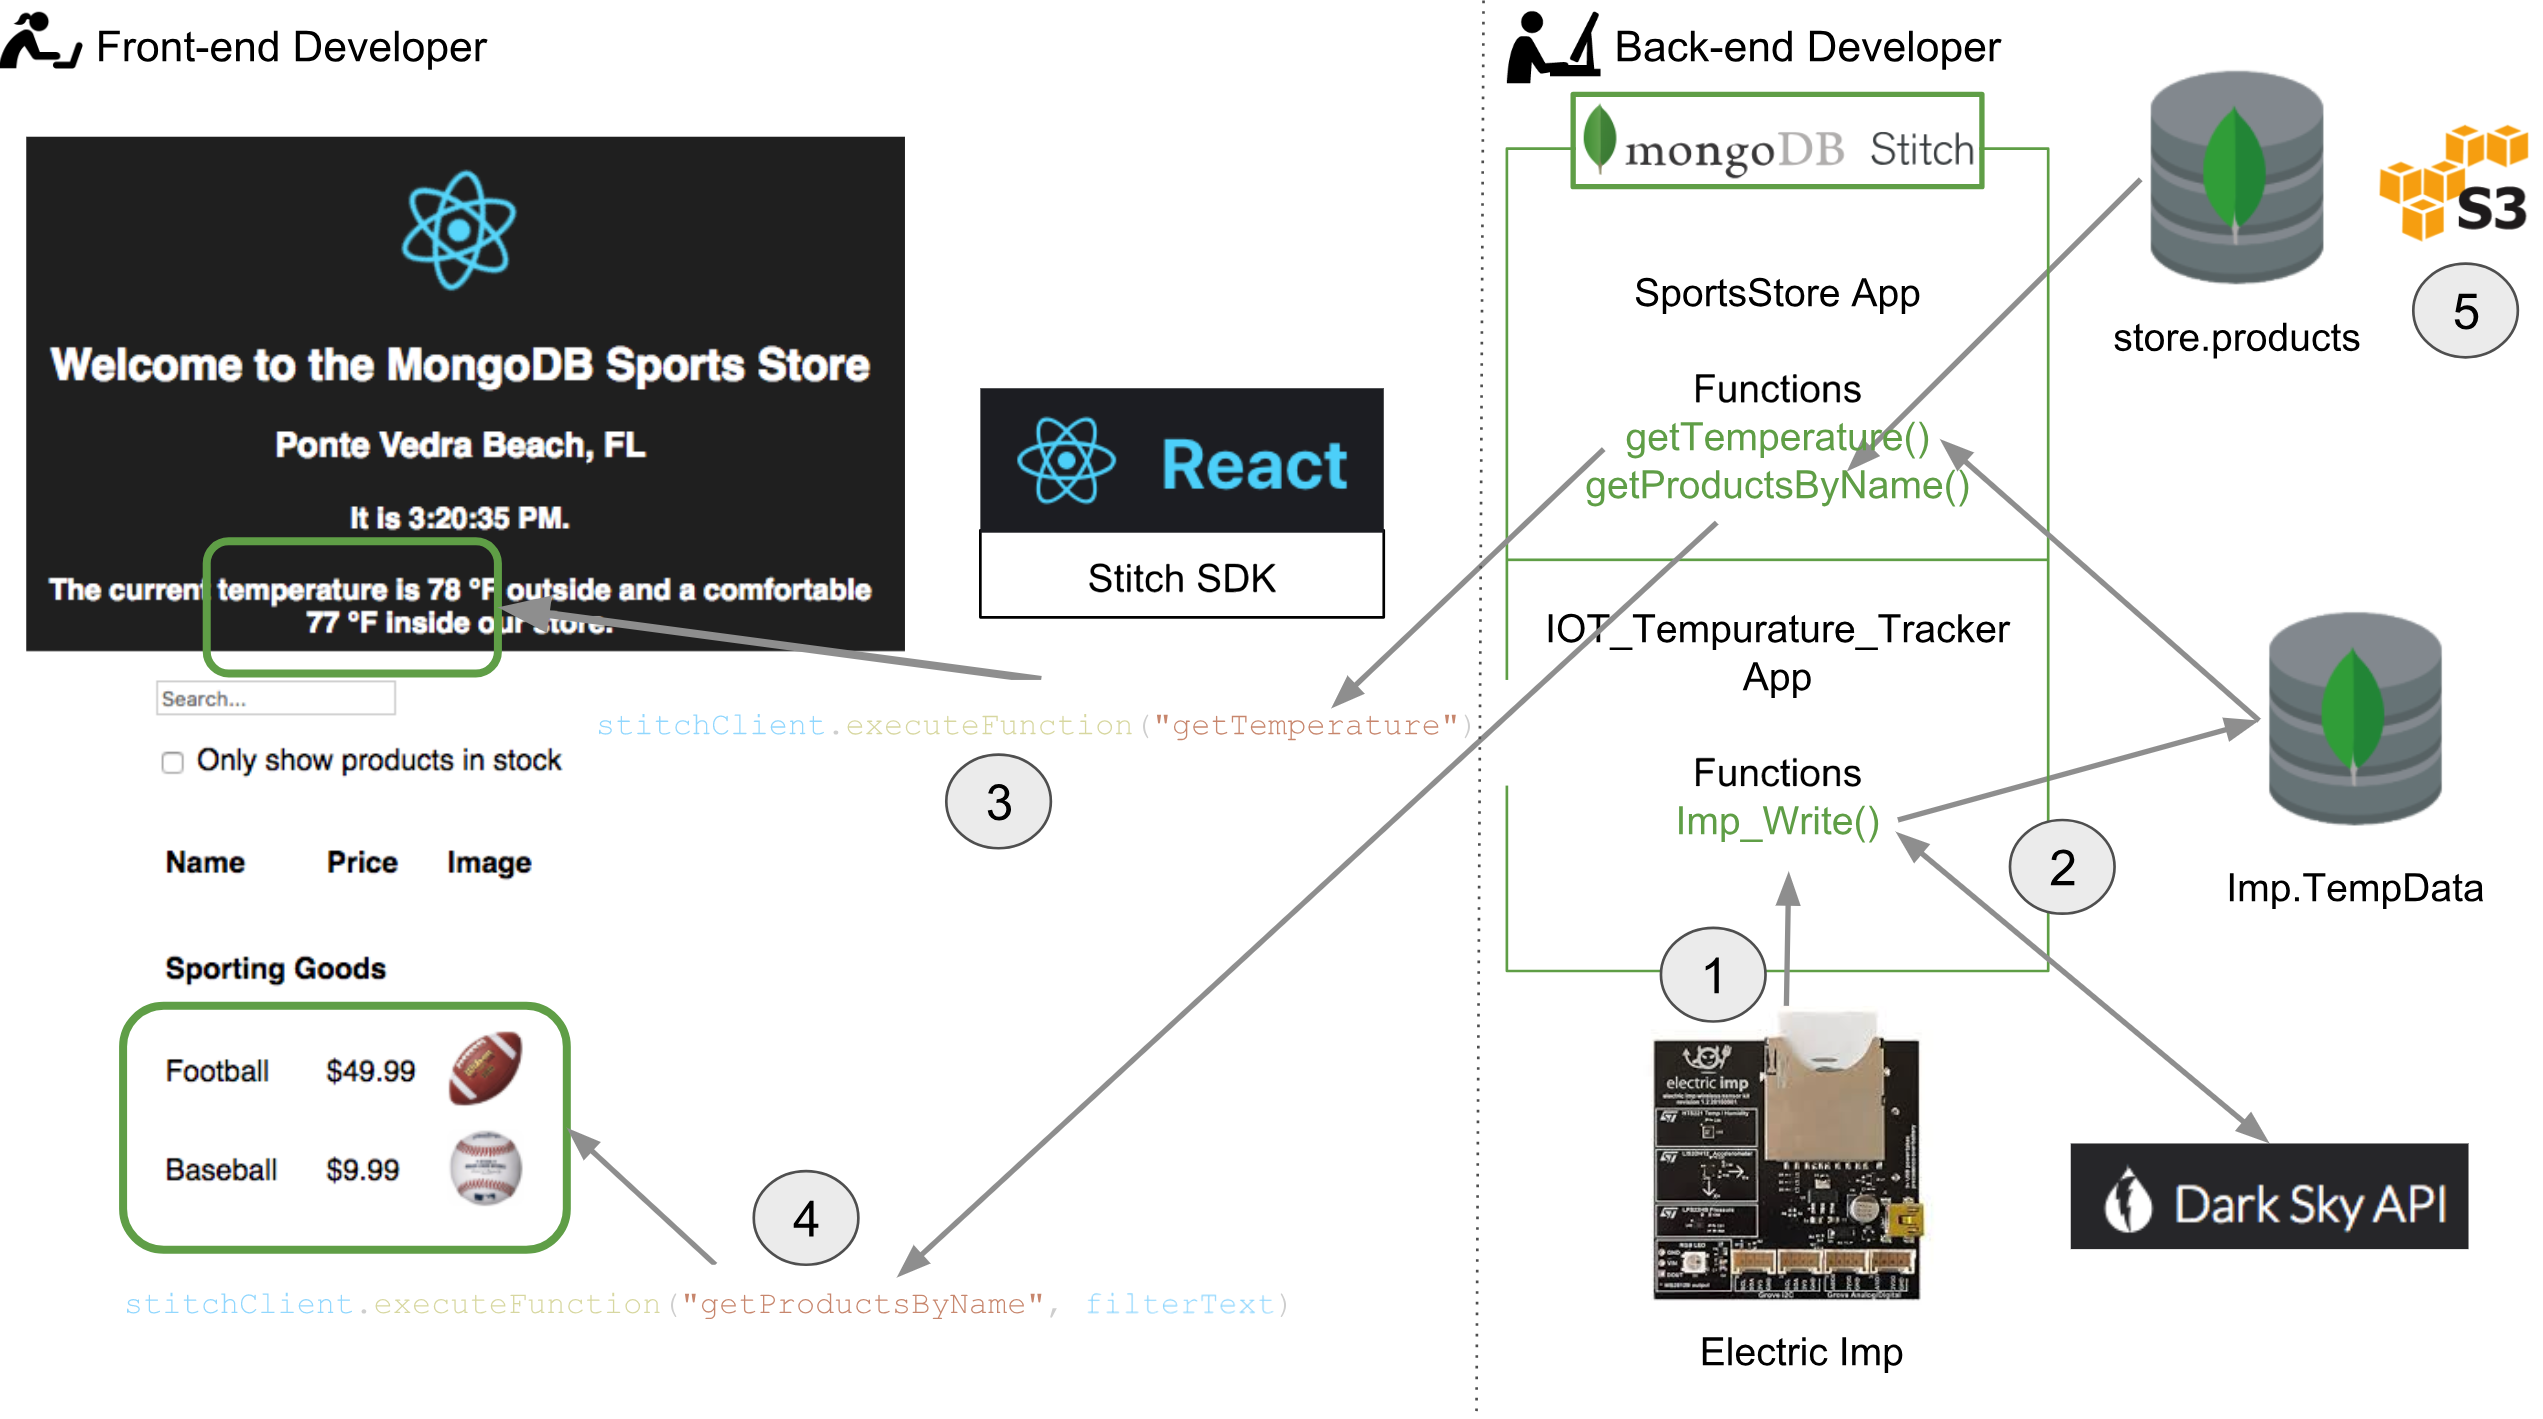
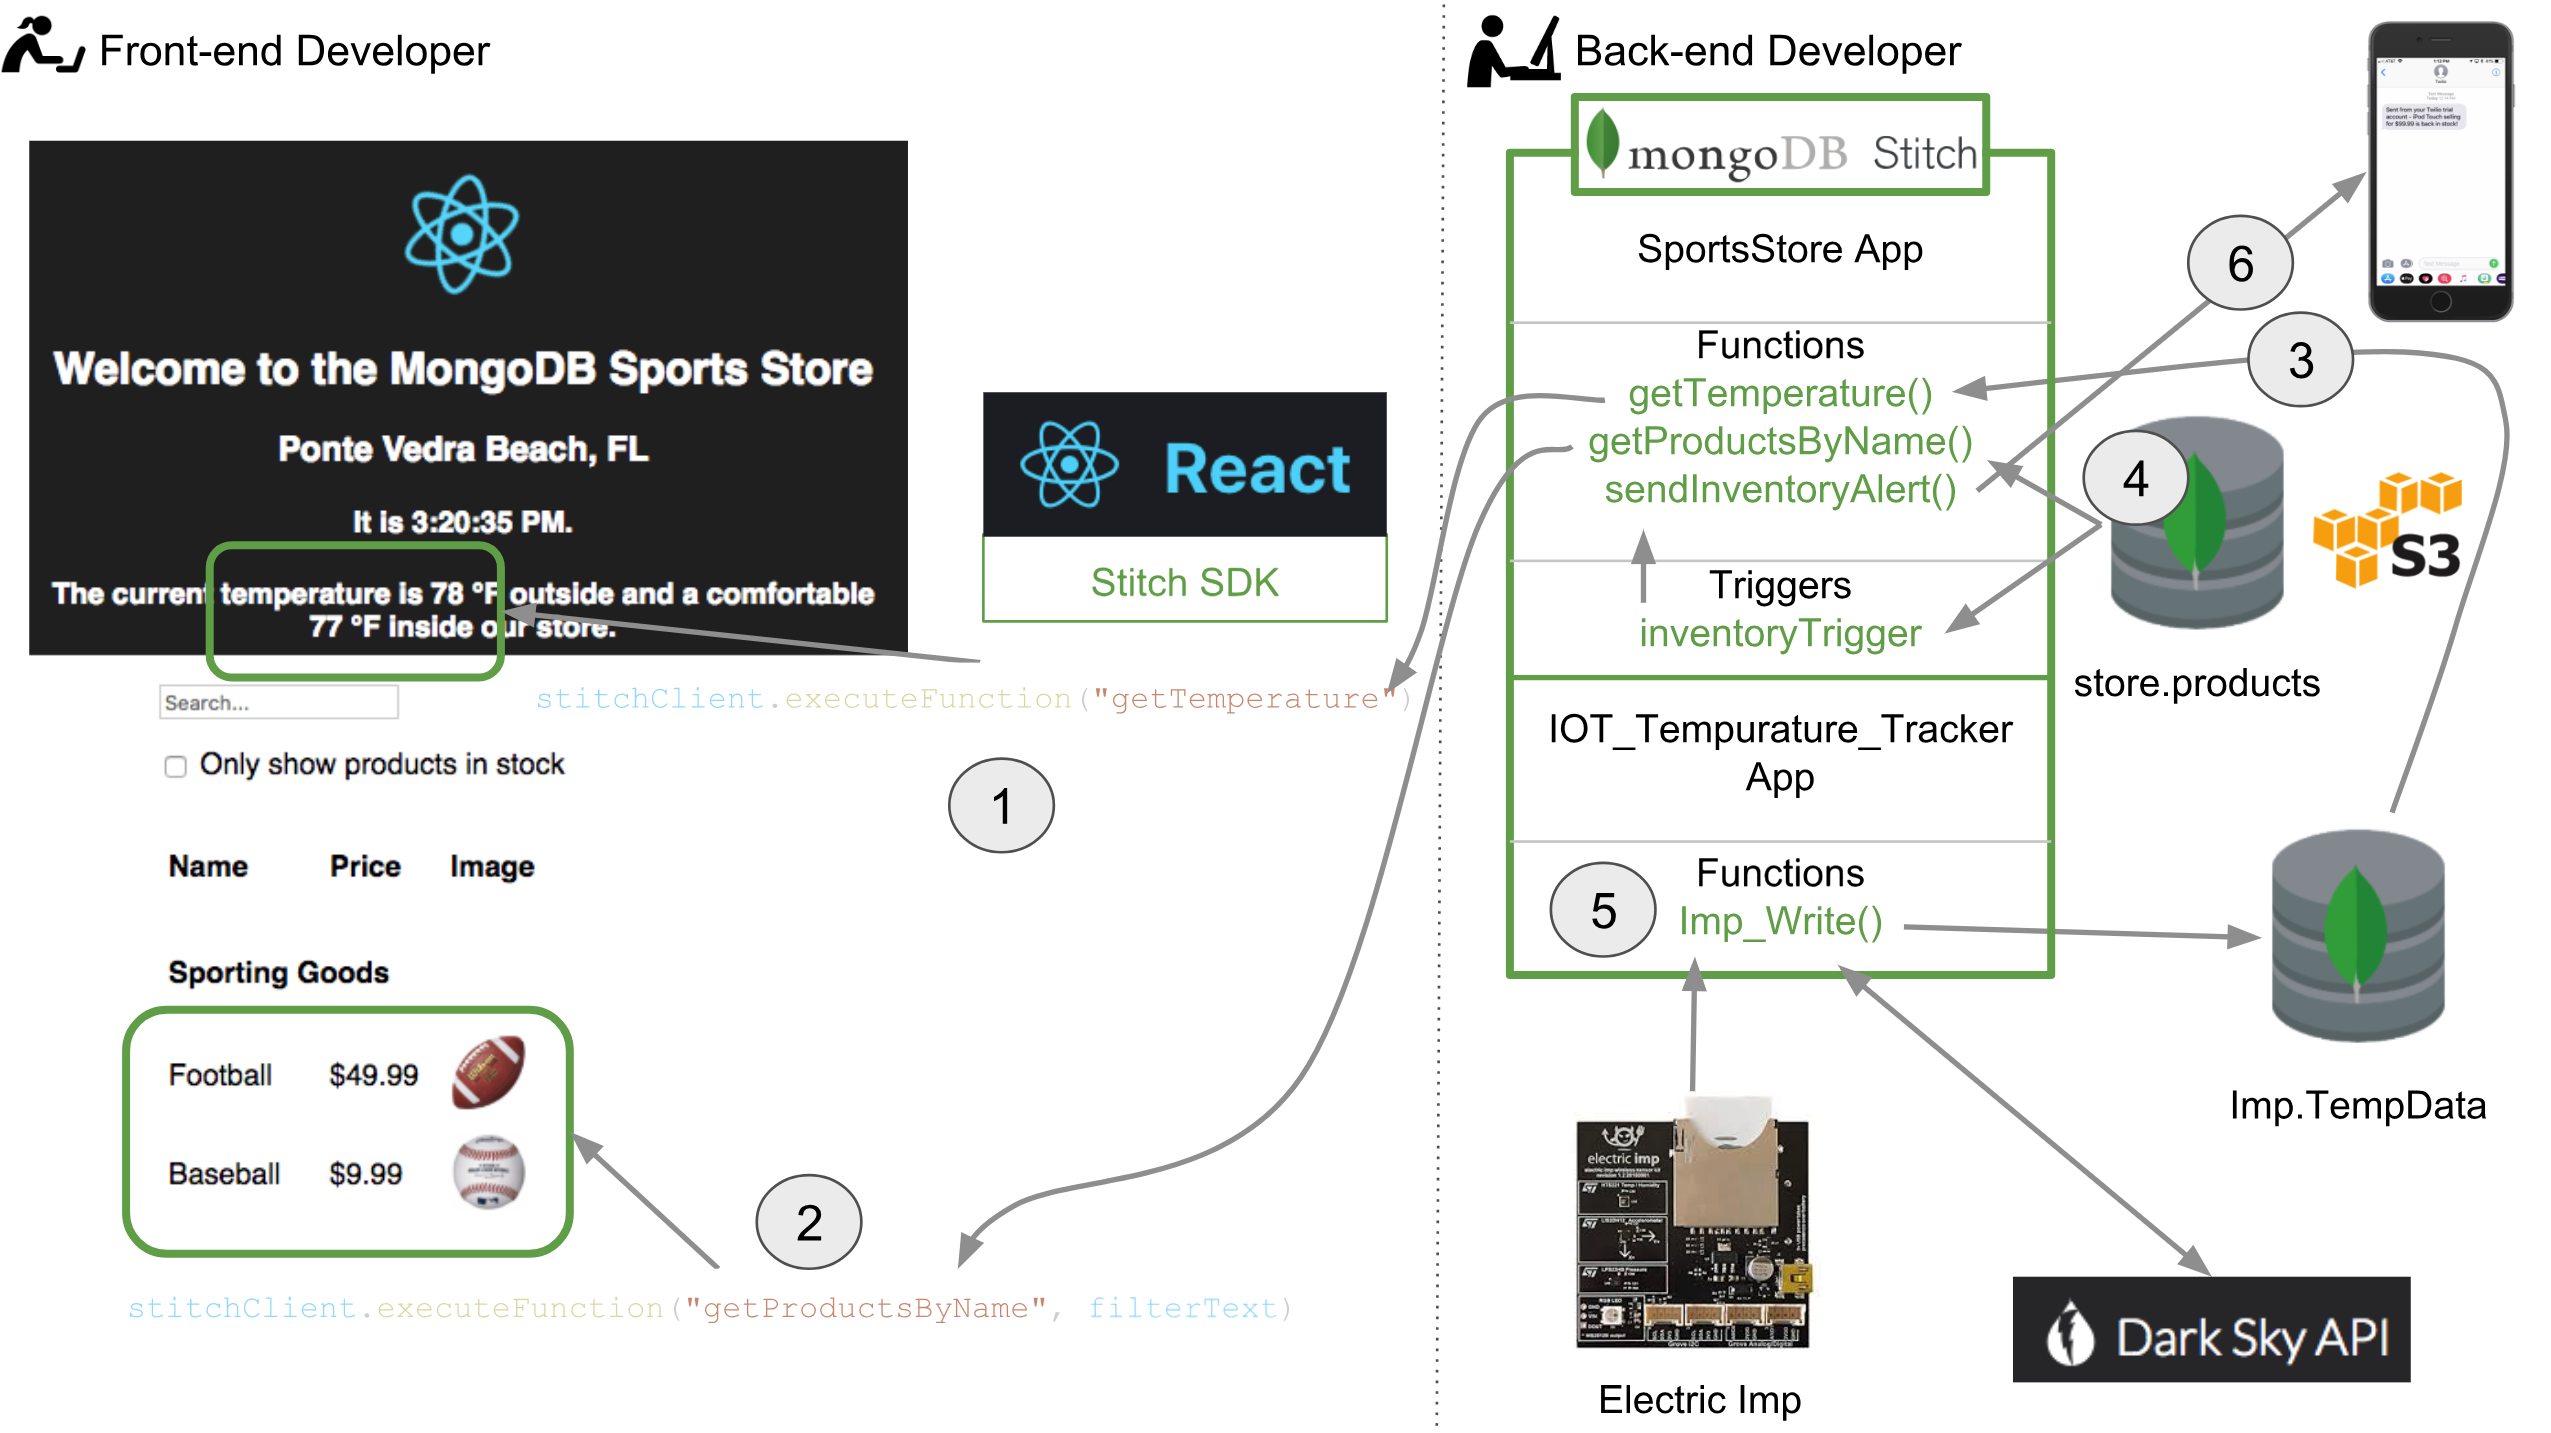
Updated architecture

diff --git a/README.md b/README.md
@@ -7,18 +7,29 @@
 Here I'm going to demonstrate how Stitch's serverless framework can be used to expose APIs, so you can shield your development community from the nuances of your backend.
 
  ## Architecture
-I started with the [Thinking in React](https://reactjs.org/docs/thinking-in-react.html) sample client and modified it to pull the data dynamically from MongoDB. First let's start with an overview of the architecture:
+I started with the [Thinking in React](https://reactjs.org/docs/thinking-in-react.html) sample client and modified it to pull the data dynamically from MongoDB. First let's start with an overview of the architecture, considering it both from the front-end developer's and back-end developer's points of view:
  
  ![](images/architecture.png)
 
- 1. An [Electric Imp](https://www.electricimp.com/) calls a [Stitch function](https://docs.mongodb.com/stitch/functions/) `Imp_Write()` every 2 seconds with the temperature inside the store.
- 2. The `Imp_Write()` function calls the [Dark Sky](https://darksky.net/dev) API to get the temperature outside the store and records both the indoor and outdoor temperatures to MongoDB.
- 3. When the [MongoDB Sports Store](http://ec2-54-80-43-147.compute-1.amazonaws.com:3000/) is loaded, it uses the [Stitch JavaScript SDK](https://s3.amazonaws.com/stitch-sdks/js/docs/master/index.html) to call the `getTemperature()` Stitch function, which reads the most recent record in the `Imp.TempData` collection.
- 4. When a search is performed, the `getProductsByName()` Stitch function is called, which uses the search text to filter the relevant products from the `store.products` collection.
- 5. [Amazon S3](https://aws.amazon.com/s3) is used to store the binary images. Although the images could have easily been stored in MongoDB, I wanted to show the popular use case where binary data is offloaded to a service like S3.
-
- The MongoDB Sports Store UI, which is written in [React](https://reactjs.org/), has now been abstracted from Electric Imp, Dark Sky and even the MongoDB database. As long as APIs exist to `getTemperature()` and `getProductsByName()`, the Sports Store is not dependant on the underlying technologies.
+ ### Front-end Developer
+ The front-end developer is conversant in HTML, CSS and JavaScript, along with frameworks like React. Ideally, this developer just wants to use an API to access whatever resources are needed. In this example, the front-end developer has been provided 2 APIs and uses the [Stitch JavaScript SDK](https://s3.amazonaws.com/stitch-sdks/js/docs/master/index.html) to call the these functions:
  
+ 1. `getTemperature()` - to get the current temperature inside and outside the store.
+ 2. `getProductsByName()` - to get the products related to the customer's search criteria.
+
+This developer doesn't need to worry about the implementation details of how the temperatures are determined, or where the product catalog is stored.
+
+### Back-end Developer
+The back-end developer provides the APIs used by the front-end developer(s). In this case, she has developed the following:
+
+3. A `getTemperature()` API - a [Stitch function](https://docs.mongodb.com/stitch/functions/) that reads the most recent record in the `Imp.TempData` collection.
+
+4. A `getProductsByName()` API - a Stitch function that uses the search text to filter the relevant products from the `store.products` collection. The product images are stored on AWS S3. Although the images could have easily been stored in MongoDB, I wanted to show the popular use case where binary data is offloaded to a service like S3.
+
+5. An `Imp_Write()` function - this function is called every 2 seconds by an [Electric Imp](https://www.electricimp.com/).  In addition to capturing the indoor temperature, the `Imp_Write()` function also calls a [Dark Sky](https://darksky.net/dev) API to get the temperature outside the store and records both the indoor and outdoor temperatures to the `Imp.TempData` MongoDB collection.
+
+6. A `sendInventoryAlert()` function initiated by an `inventoryTrigger`. The trigger will fire when a product is updated, and notify the customer that the product has gone in or out of stock.
+
  ## Advance To Go
 
 If you just want to see the app in action, simply clone this repository and run the app:
